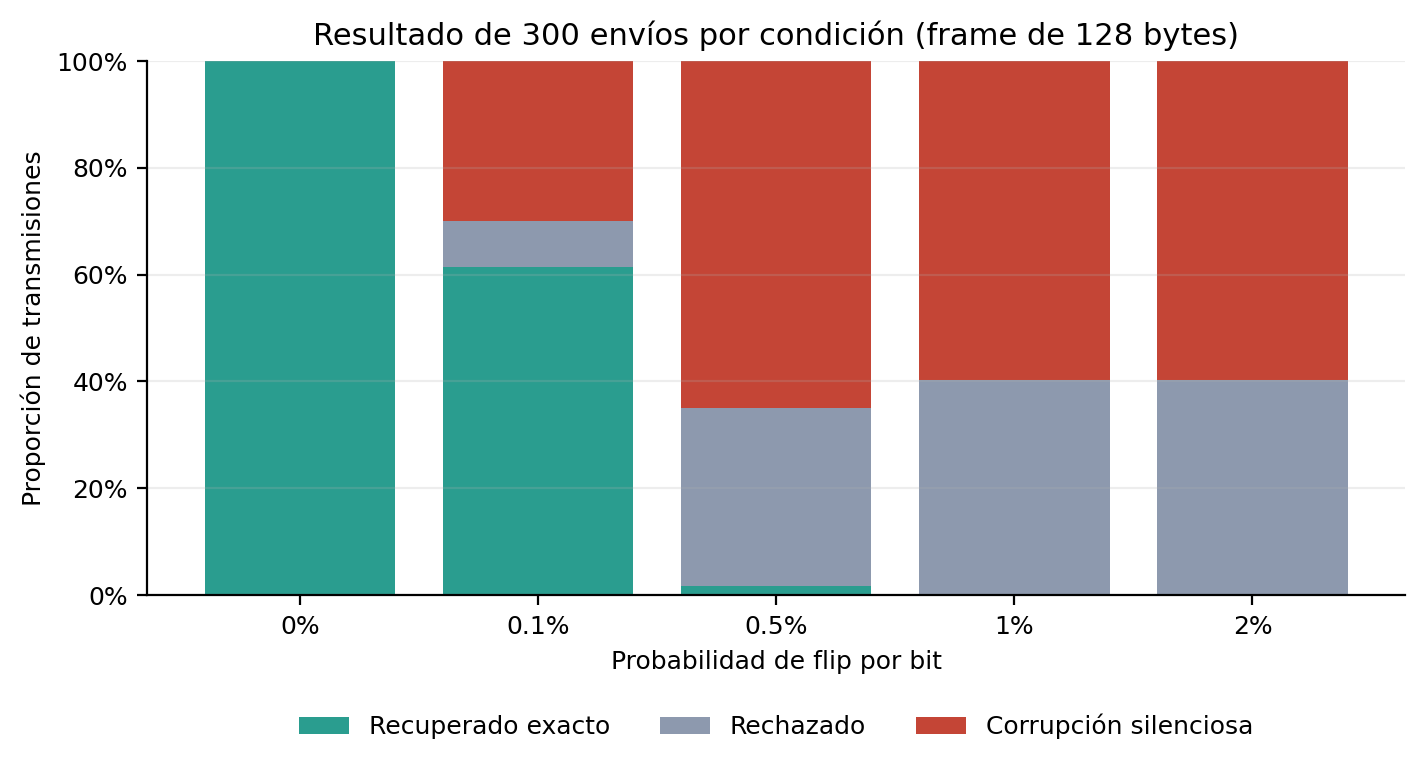
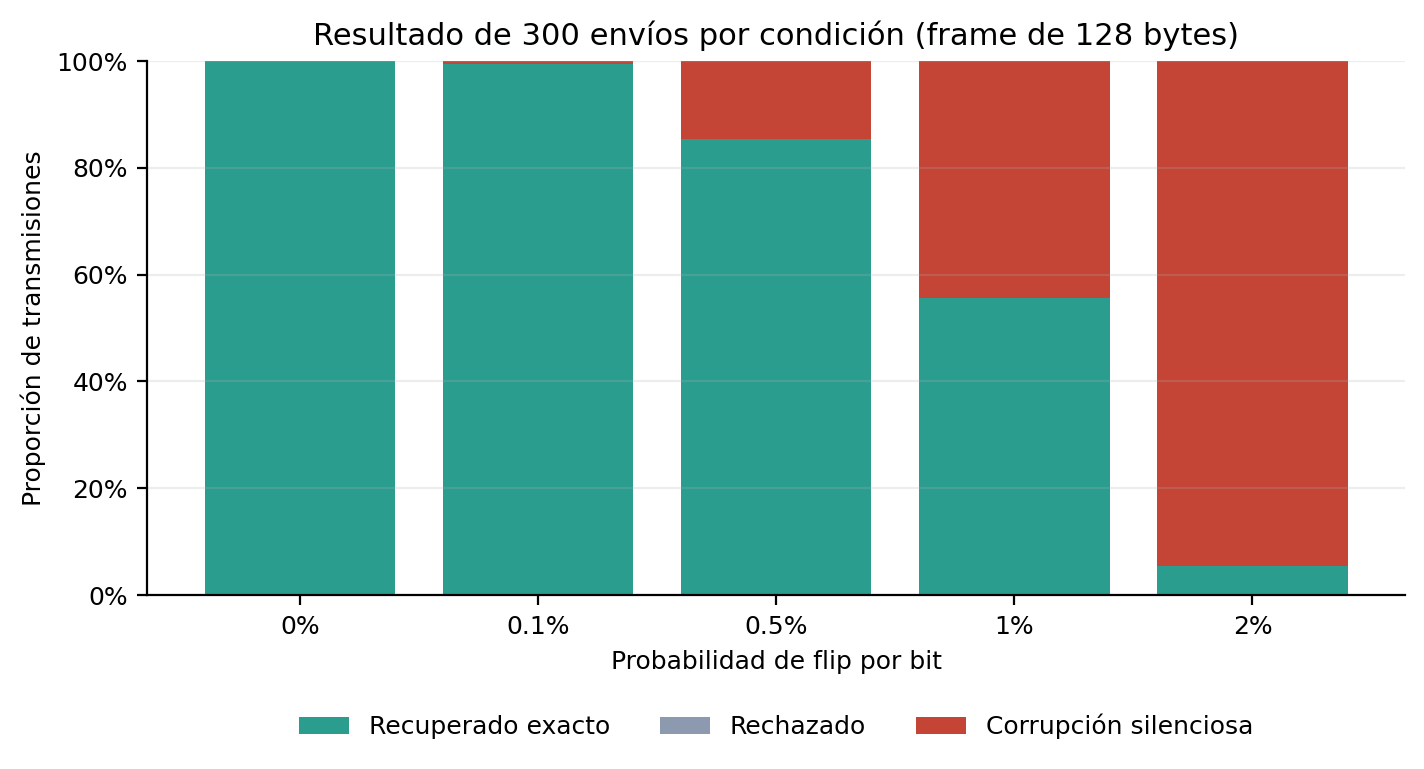
Resultados actualizados

Changed region(s): [[0.309, 0.0624, 0.9579, 0.7802]]

diff --git a/proyecto/go-side/internal/router/node.go b/proyecto/go-side/internal/router/node.go
@@ -6,6 +6,7 @@ import (
 	"fmt"
 	"log"
 	"net"
+	"sync"
 	"time"
 
 	"cc3067/lab3/go-side/internal/router/algorithms"
@@ -25,12 +26,18 @@ type Node struct {
 	Config  NodeConfig
 	CSVPath string
 
-	store            *control.LinkStateStore
-	activeNeighbors  map[string]bool
-	routes           map[string]control.Route
-	routingQueue     chan map[string]interface{}
-	forwardingQueue  chan control.DataEnvelope
-	firstHelloSeen   bool
+	store *control.LinkStateStore
+
+	// mu protege activeNeighbors y routes: se leen/escriben desde goroutines
+	// distintas (routingLoop, el timer de buildAndFloodOwnLSA, convergenceTimer
+	// y forwardingLoop corren en paralelo).
+	mu              sync.RWMutex
+	activeNeighbors map[string]bool
+	routes          map[string]control.Route
+
+	routingQueue    chan map[string]interface{}
+	forwardingQueue chan control.DataEnvelope
+	firstHelloSeen  bool
 }
 
 // NewNode crea un nodo listo para arrancar con Start/RunForever.
@@ -141,8 +148,10 @@ func (n *Node) routingLoop() {
 }
 
 func (n *Node) onHello(sender string) {
+	n.mu.Lock()
 	firstTime := !n.activeNeighbors[sender]
 	n.activeNeighbors[sender] = true
+	n.mu.Unlock()
 	log.Printf("[NETWORK %s] HELLO reply from %s", n.Config.ID(), sender)
 	if firstTime && !n.firstHelloSeen {
 		n.firstHelloSeen = true
@@ -153,11 +162,13 @@ func (n *Node) onHello(sender string) {
 
 func (n *Node) buildAndFloodOwnLSA() {
 	links := map[string]int{}
+	n.mu.RLock()
 	for _, neighbor := range n.Config.Neighbors {
 		if n.activeNeighbors[neighbor.ID()] {
 			links[neighbor.ID()] = neighbor.Cost
 		}
 	}
+	n.mu.RUnlock()
 	if n.Config.AttachedHost != nil {
 		links[n.Config.AttachedHost.ID()] = n.Config.AttachedHost.Cost
 	}
@@ -214,7 +225,9 @@ func (n *Node) convergenceTimer() {
 			Cost:        result.Cost,
 		}
 	}
+	n.mu.Lock()
 	n.routes = routes
+	n.mu.Unlock()
 	if err := control.WriteRoutingTable(n.CSVPath, routes); err != nil {
 		log.Printf("[NETWORK %s] error escribiendo tabla de ruteo: %v", n.Config.ID(), err)
 		return
@@ -252,7 +265,10 @@ func (n *Node) ipFor(nodeID string) string {
 func (n *Node) forwardingLoop() {
 	for envelope := range n.forwardingQueue {
 		send := func(ip string, port int, message interface{}) { n.SendMessage(ip, port, message) }
-		if err := forwarding.Forward(envelope, n.routes, send); err != nil {
+		n.mu.RLock()
+		routes := n.routes
+		n.mu.RUnlock()
+		if err := forwarding.Forward(envelope, routes, send); err != nil {
 			log.Printf("[NETWORK %s] %v", n.Config.ID(), err)
 		}
 	}

diff --git a/proyecto/go-side/internal/router/node_test.go b/proyecto/go-side/internal/router/node_test.go
@@ -1,0 +1,69 @@
+package router
+
+import (
+	"fmt"
+	"sync"
+	"testing"
+
+	"cc3067/lab3/go-side/internal/router/control"
+)
+
+// TestConcurrentActiveNeighborsAndRoutes ejercita en paralelo los mismos
+// caminos que en produccion corren en goroutines distintas (onHello desde
+// routingLoop, buildAndFloodOwnLSA desde el timer del primer HELLO, y el
+// intercambio de routes entre convergenceTimer y forwardingLoop). Sin el
+// mutex que protege activeNeighbors/routes, `go test -race` falla aqui.
+func TestConcurrentActiveNeighborsAndRoutes(t *testing.T) {
+	config := NodeConfig{
+		Name: "T",
+		IP:   "127.0.0.1",
+		Port: 5900,
+		Neighbors: []Neighbor{
+			{IP: "127.0.0.1", Port: 65501, Cost: 1},
+			{IP: "127.0.0.1", Port: 65502, Cost: 1},
+		},
+	}
+	n := NewNode(config, t.TempDir()+"/routing_table.csv")
+
+	var wg sync.WaitGroup
+
+	// En produccion, onHello solo lo llama la goroutine unica de routingLoop
+	// (un for-range secuencial sobre el canal) -- nunca corre concurrente
+	// consigo misma, asi que aqui tambien se simula desde una sola goroutine.
+	wg.Add(1)
+	go func() {
+		defer wg.Done()
+		for i := 0; i < 100; i++ {
+			n.onHello(fmt.Sprintf("127.0.0.1:%d", 65501+i%2))
+		}
+	}()
+
+	// buildAndFloodOwnLSA corre en su propia goroutine (time.AfterFunc),
+	// concurrente con onHello -- ambas tocan activeNeighbors.
+	for i := 0; i < 50; i++ {
+		wg.Add(1)
+		go func() {
+			defer wg.Done()
+			n.buildAndFloodOwnLSA()
+		}()
+	}
+	for i := 0; i < 50; i++ {
+		wg.Add(1)
+		go func(i int) {
+			defer wg.Done()
+			n.mu.Lock()
+			n.routes = map[string]control.Route{"X": {Destination: "X", Cost: i}}
+			n.mu.Unlock()
+		}(i)
+	}
+	for i := 0; i < 50; i++ {
+		wg.Add(1)
+		go func() {
+			defer wg.Done()
+			n.mu.RLock()
+			_ = n.routes
+			n.mu.RUnlock()
+		}()
+	}
+	wg.Wait()
+}
